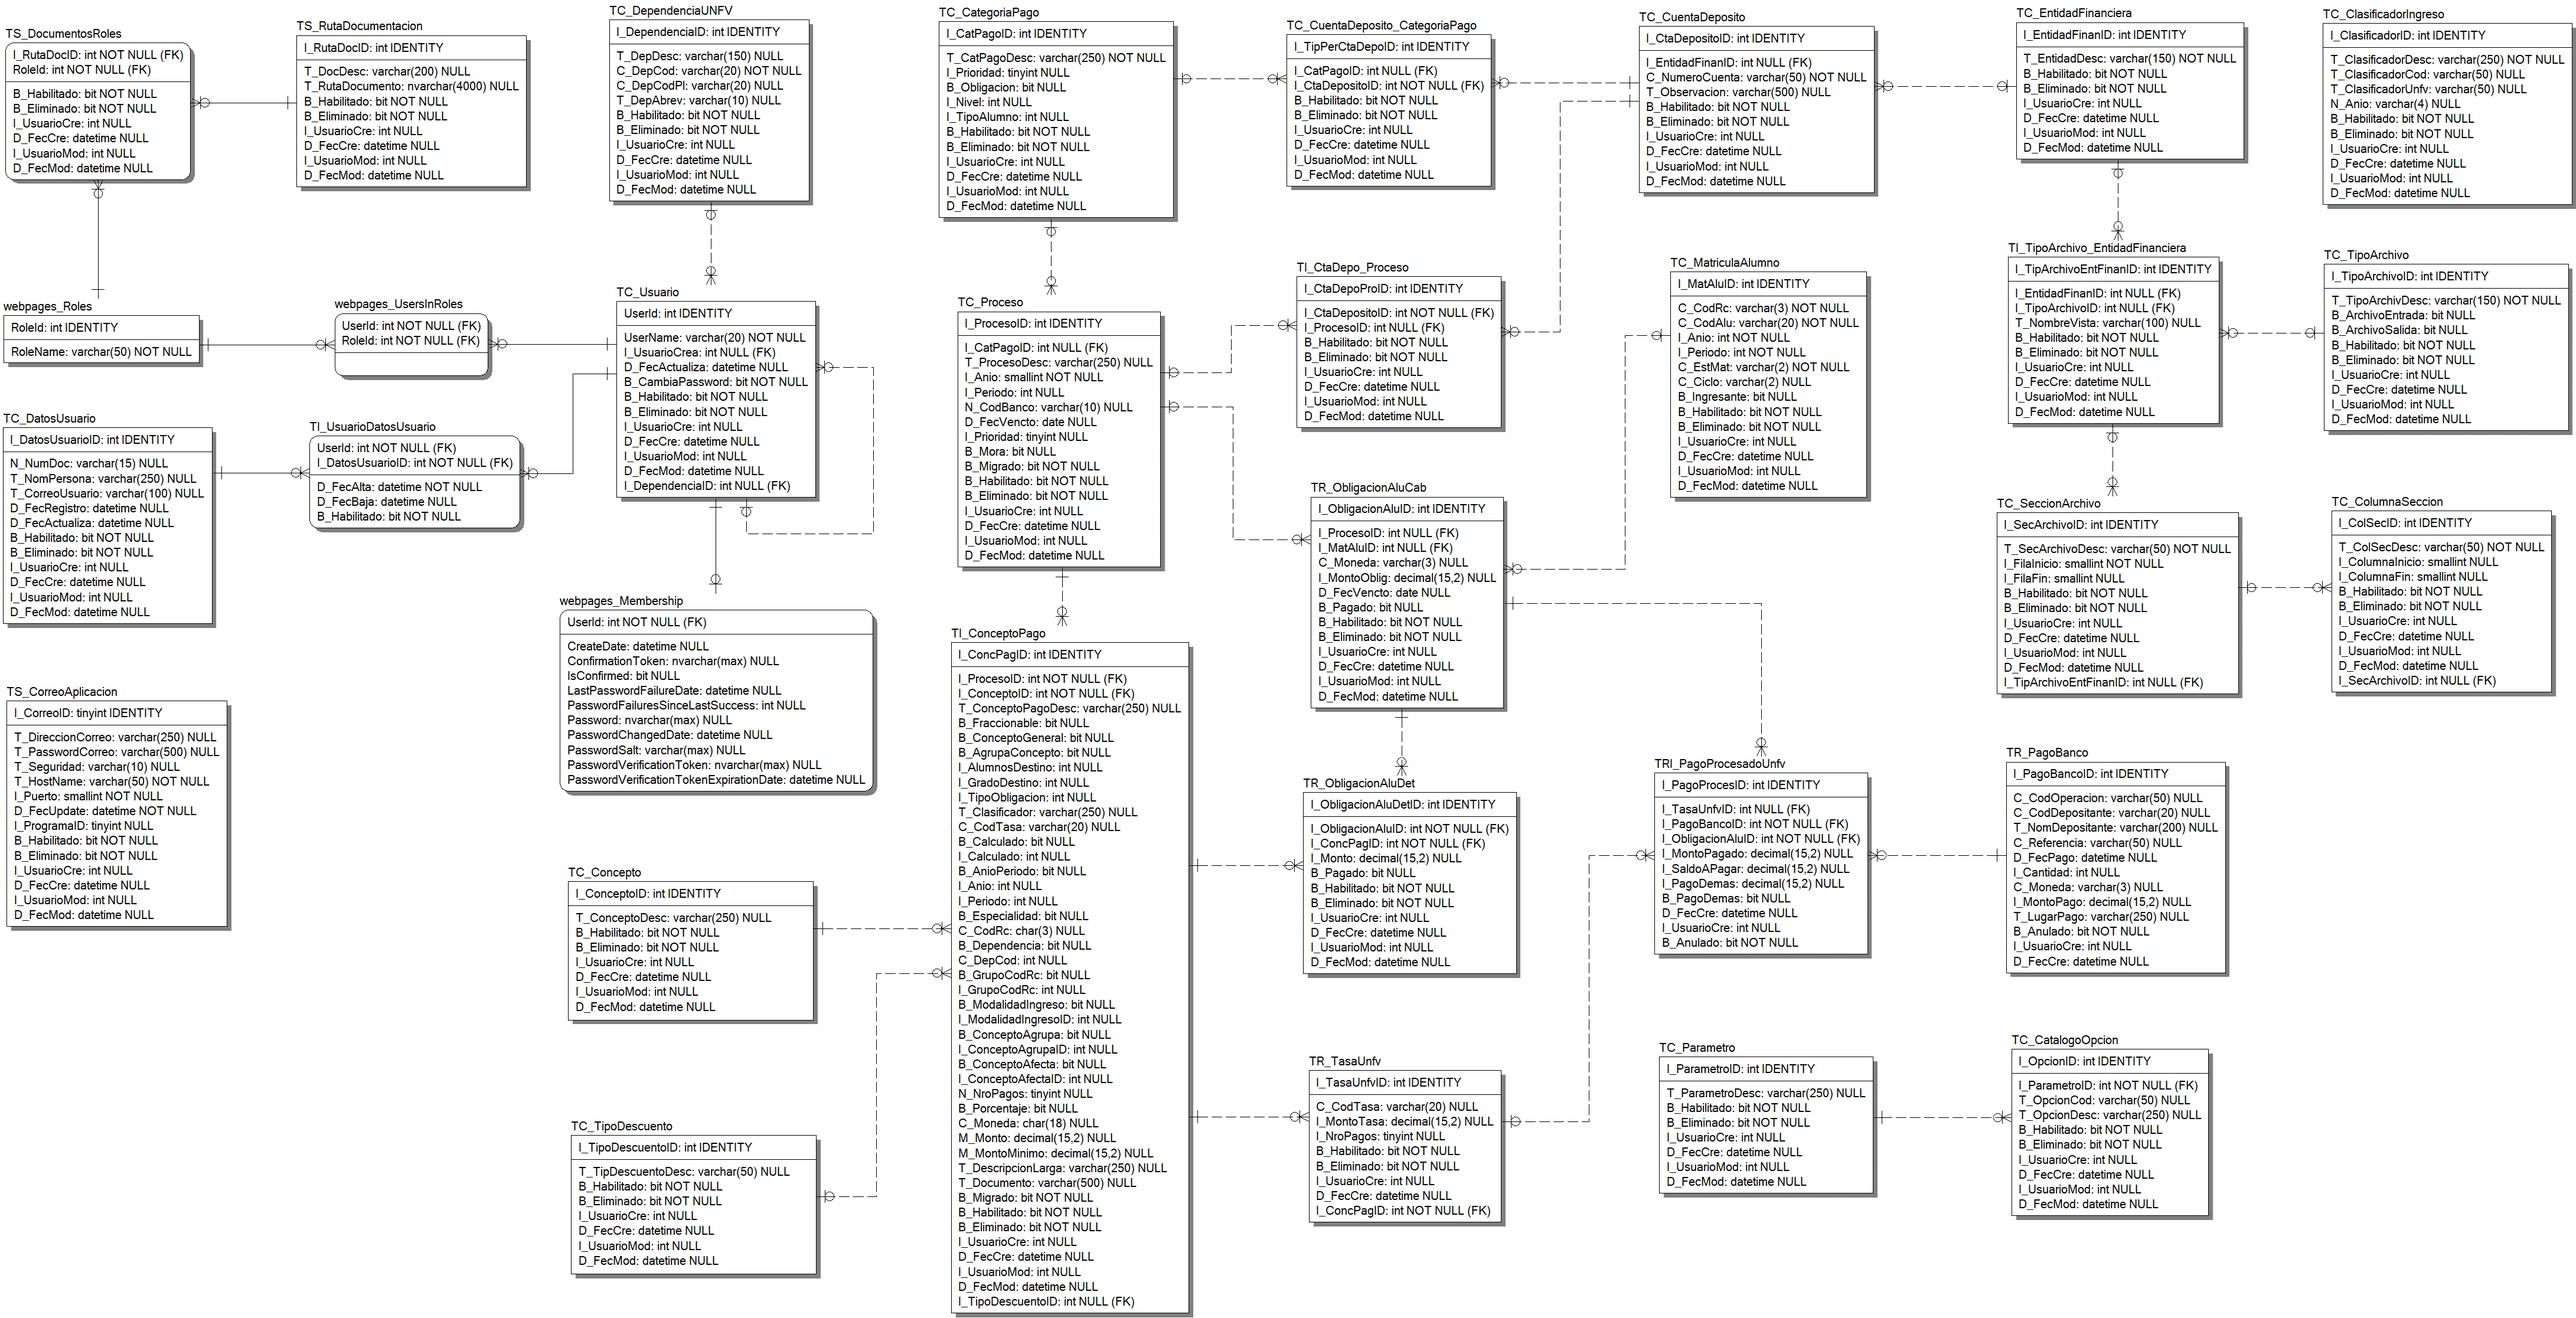
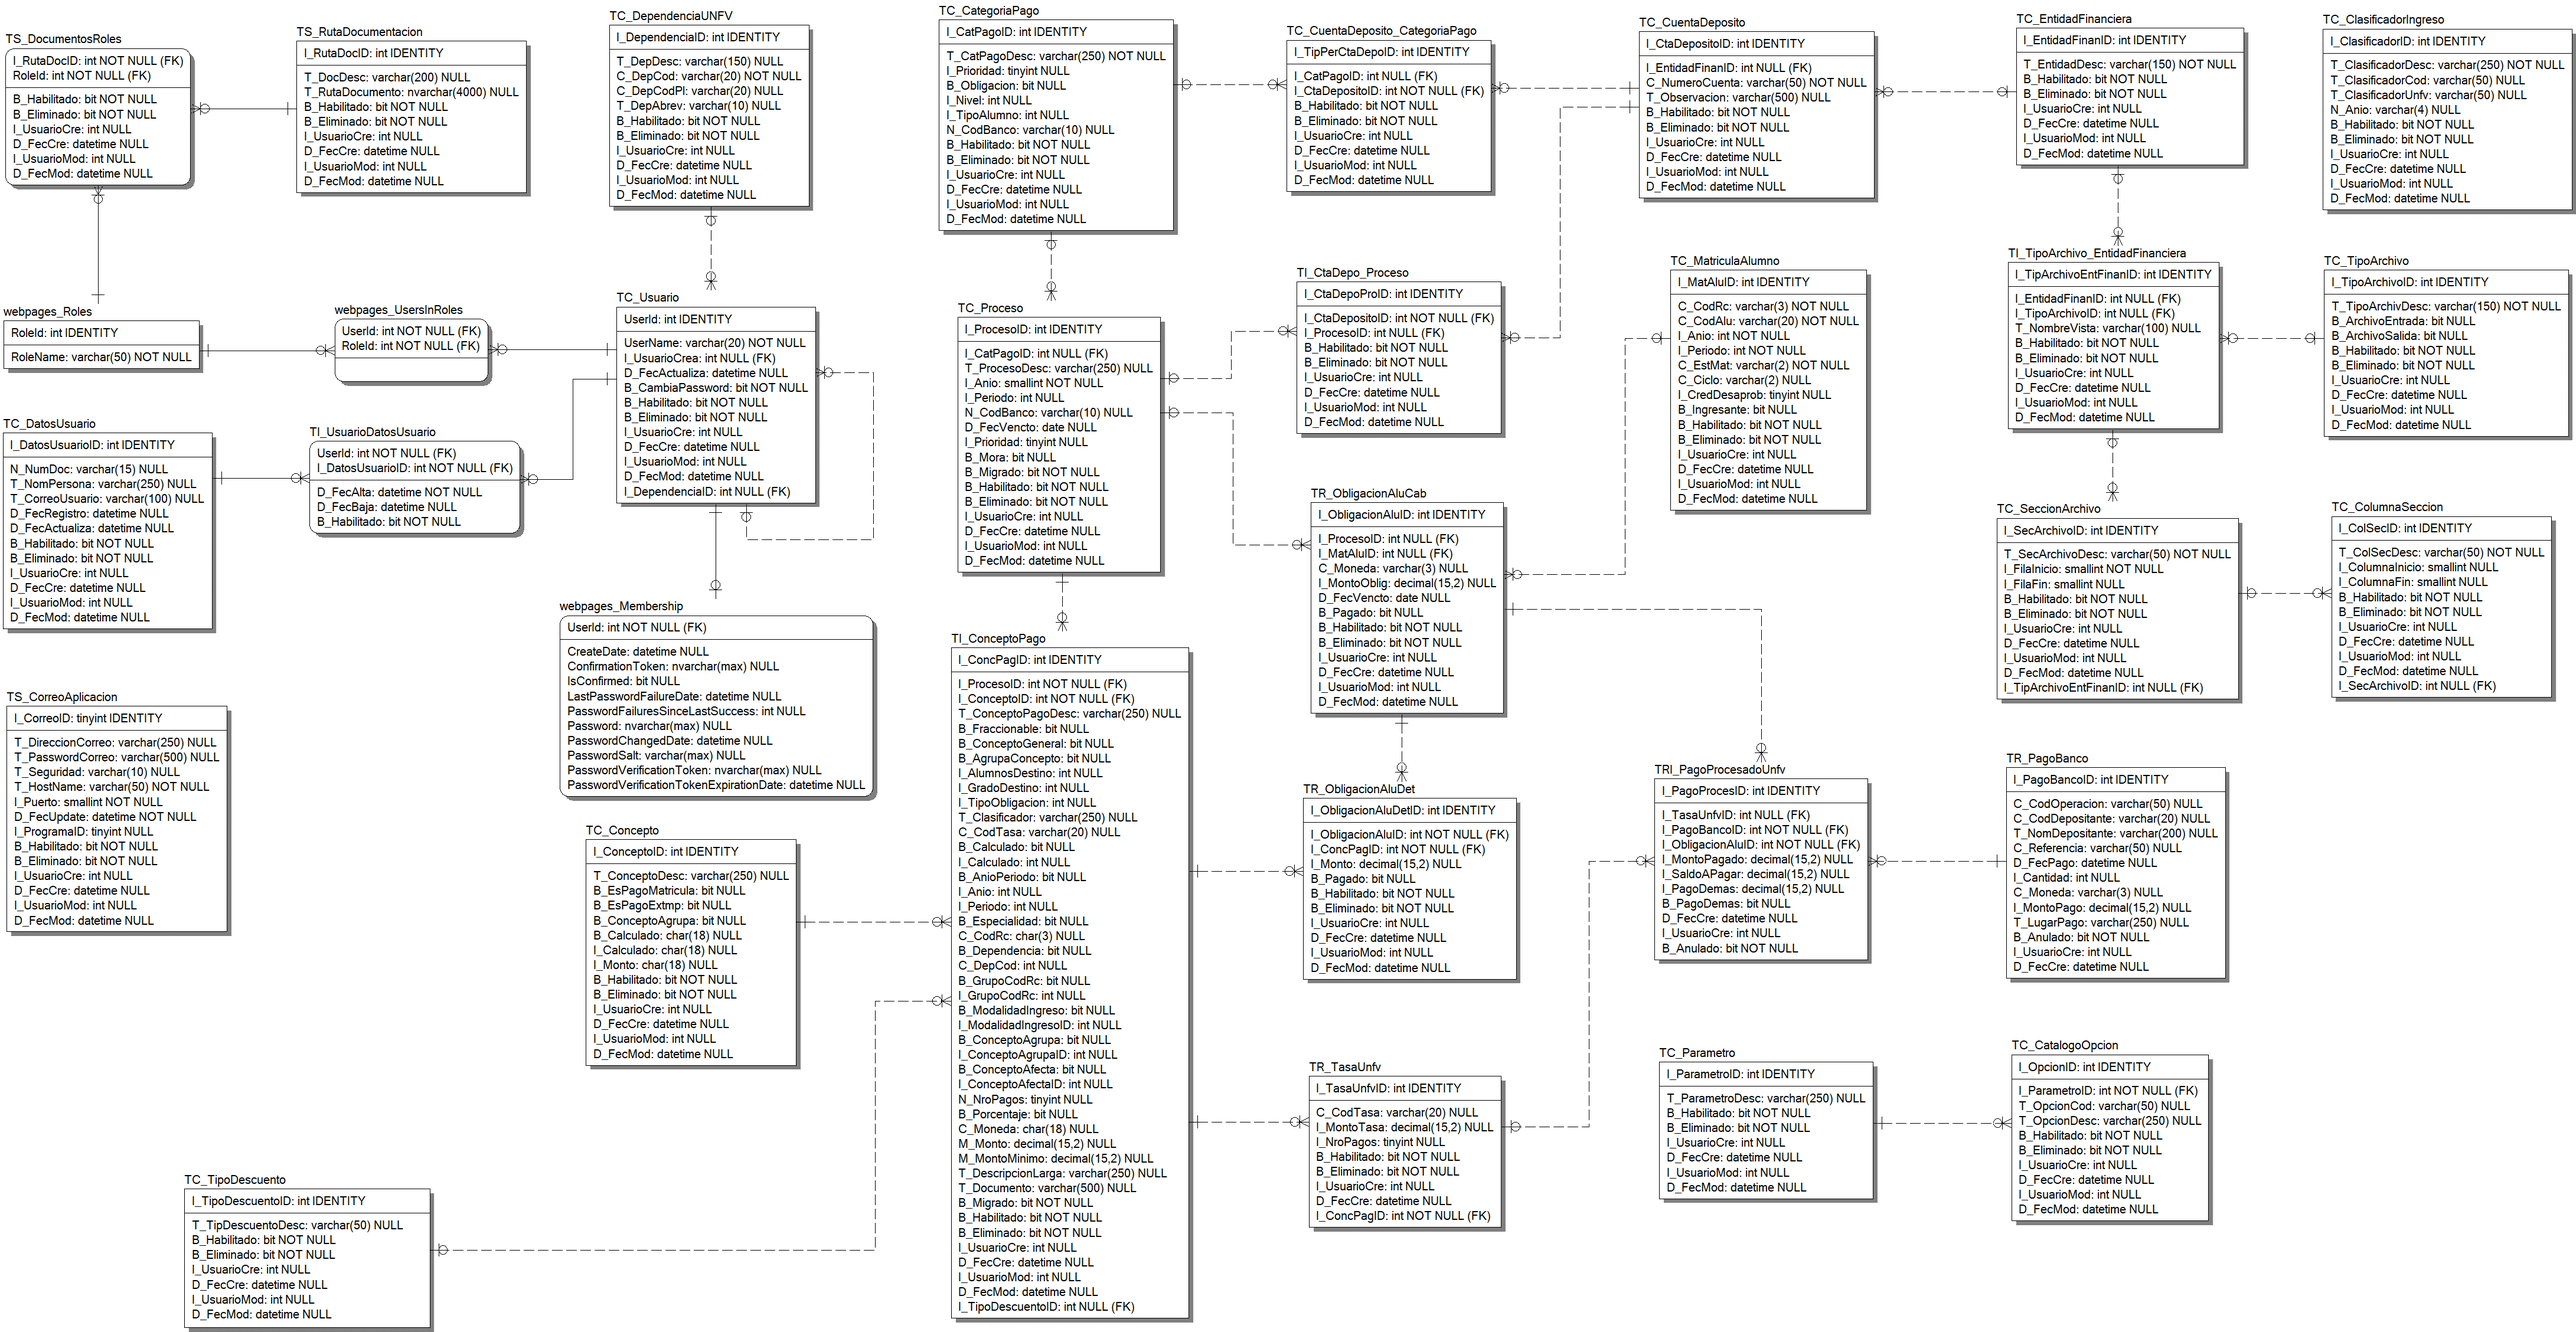
Se agregó campo N_CodBanco a CategoriaPago

diff --git a/src/app/00043-CuentasPorCobrar/Data/Tables/TC_CategoriaPago.cs b/src/app/00043-CuentasPorCobrar/Data/Tables/TC_CategoriaPago.cs
@@ -20,6 +20,7 @@ namespace Data.Tables
         public int I_TipoAlumno { get; set; }
         public string T_TipoAluDesc { get; set; }
         public bool B_Obligacion { get; set; }
+        public string N_CodBanco { get; set; }
         public bool B_Habilitado { get; set; }
         public bool B_Eliminado { get; set; }
         public int? I_UsuarioCre { get; set; }
@@ -86,6 +87,7 @@ namespace Data.Tables
                     parameters.Add(name: "I_TipoAlumno", dbType: DbType.Int32, value: this.I_TipoAlumno);
                     parameters.Add(name: "I_Prioridad", dbType: DbType.Int32, value: this.I_Prioridad);
                     parameters.Add(name: "B_Obligacion", dbType: DbType.Boolean, value: this.B_Obligacion);
+                    parameters.Add(name: "N_CodBanco", dbType: DbType.String, size: 10, value: this.N_CodBanco);
                     parameters.Add(name: "Tbl_Cuentas", value: dataTable.AsTableValuedParameter("type_SelectItems"));
                     parameters.Add(name: "D_FecCre", dbType: DbType.DateTime, value: this.D_FecCre);
                     parameters.Add(name: "CurrentUserId", dbType: DbType.Int32, value: currentUserId);
@@ -122,6 +124,7 @@ namespace Data.Tables
                     parameters.Add(name: "I_Nivel", dbType: DbType.Int32, value: this.I_Nivel);
                     parameters.Add(name: "I_TipoAlumno", dbType: DbType.Int32, value: this.I_TipoAlumno);
                     parameters.Add(name: "I_Prioridad", dbType: DbType.Int32, value: this.I_Prioridad);
+                    parameters.Add(name: "N_CodBanco", dbType: DbType.String, size: 10, value: this.N_CodBanco);
                     parameters.Add(name: "Tbl_Cuentas", value: dataTable.AsTableValuedParameter("type_SelectItems"));
                     parameters.Add(name: "B_Obligacion", dbType: DbType.Boolean, value: this.B_Obligacion);
                     parameters.Add(name: "D_FecMod", dbType: DbType.DateTime, value: this.D_FecMod);

diff --git a/src/app/00043-CuentasPorCobrar/WebApp/Models/CategoriaPagoModel.cs b/src/app/00043-CuentasPorCobrar/WebApp/Models/CategoriaPagoModel.cs
@@ -12,10 +12,13 @@ namespace WebApp.Models
     public class CategoriaPagoModel
     {
         private readonly ICategoriaPago _categoriaPago;
+        private readonly IEntidadFinanciera _entidadFinanciera;
+        private const int BANCO_COMERCIO_ID = 1;
 
         public CategoriaPagoModel()
         {
             _categoriaPago = new CategoriaPago();
+            _entidadFinanciera = new EntidadFinanciera();
         }
 
         public List<CategoriaPagoViewModel> Find()
@@ -32,18 +35,30 @@ namespace WebApp.Models
 
         public CategoriaPagoRegistroViewModel Find(int categoriaPagoID)
         {
-            return new CategoriaPagoRegistroViewModel(_categoriaPago.Find(categoriaPagoID));
+            CategoriaPago categoriaPago = _categoriaPago.Find(categoriaPagoID);
+            EntidadFinanciera bancoComercio = _entidadFinanciera.Find(BANCO_COMERCIO_ID);
+
+            string nombreBanco = bancoComercio != null ? bancoComercio.Nombre : null;
+
+            var result = new CategoriaPagoRegistroViewModel(categoriaPago) { BcoComercioNombre = nombreBanco };
+
+            if (categoriaPago.CuentasDepositoEntidad.Where(x => x.EntidadFinanId == BANCO_COMERCIO_ID).Count() > 0)
+                 result.MostrarCodBanco = true;
+
+            return result;
         }
 
         public Response Save(CategoriaPagoRegistroViewModel model, int currentUserId)
         {
-            CategoriaPago categoriaPago = new CategoriaPago() {
+            CategoriaPago categoriaPago = new CategoriaPago()
+            {
                 CategoriaId = model.Id,
                 Descripcion = model.Nombre,
                 Nivel = model.NivelId,
                 TipoAlumno = model.TipoAlumnoId,
                 Prioridad = model.Prioridad,
                 EsObligacion = model.EsObligacion,
+                CodBcoComercio = model.CodBcoComercio,
                 CuentasDeposito = model.CuentasDeposito.ToList()
             };
 

diff --git a/src/app/00043-CuentasPorCobrar/Domain/Entities/CategoriaPago.cs b/src/app/00043-CuentasPorCobrar/Domain/Entities/CategoriaPago.cs
@@ -21,7 +21,9 @@ namespace Domain.Entities
         public int TipoAlumno { get; set; }
         public string TipoAlumnoDesc { get; set; }
         public bool EsObligacion { get; set; }
+        public string CodBcoComercio { get; set; }
         public List<int> CuentasDeposito { get; set; }
+        public List<CuentaDepoEntidad> CuentasDepositoEntidad { get; set; }
         public bool Habilitado { get; set; }
 
 
@@ -40,6 +42,7 @@ namespace Domain.Entities
             this.Prioridad = table.I_Prioridad;
             this.TipoAlumno = table.I_TipoAlumno;
             this.EsObligacion = table.B_Obligacion;
+            this.CodBcoComercio = table.N_CodBanco;
             this.Habilitado = table.B_Habilitado;
         }
 
@@ -76,7 +79,12 @@ namespace Domain.Entities
 
             return new CategoriaPago(TC_CategoriaPago.FindByID(categoriaPagoId))
             {
-                CuentasDeposito = cuentas != null ? cuentas.Select(x => x.I_CtaDepositoID).ToList() : new List<int>()
+                CuentasDeposito = cuentas != null ? cuentas.Select(x => x.I_CtaDepositoID).ToList(): new List<int>(),
+                CuentasDepositoEntidad = cuentas != null ? cuentas.Select(x => new CuentaDepoEntidad()
+                {
+                    CuentaDepoId = x.I_CtaDepositoID,
+                    EntidadFinanId = x.I_EntidadFinanID
+                }).ToList() : new List<CuentaDepoEntidad>()
             };
         }
 
@@ -88,6 +96,7 @@ namespace Domain.Entities
             _categoriaPago.I_TipoAlumno = categoriaPago.TipoAlumno;
             _categoriaPago.I_Nivel = categoriaPago.Nivel;
             _categoriaPago.B_Obligacion = categoriaPago.EsObligacion;
+            _categoriaPago.N_CodBanco = categoriaPago.CodBcoComercio;
 
             DataTable dataTable = new DataTable();
             dataTable.Columns.Add("C_ID");

diff --git a/src/app/00043-CuentasPorCobrar/Data/Procedures/USP_S_ConceptoPago.cs b/src/app/00043-CuentasPorCobrar/Data/Procedures/USP_S_ConceptoPago.cs
@@ -12,16 +12,17 @@ namespace Data.Procedures
 {
     public class USP_S_ConceptoPago
     {
-        public int I_ConcPagID { get; set; }
+        public int? I_ConcPagID { get; set; }
         public string T_CatPagoDesc { get; set; }
         public string T_ConceptoDesc { get; set; }
         public int I_Anio { get; set; }
         public int I_Periodo { get; set; }
         public decimal M_Monto { get; set; }
         
-        public static List<USP_S_ConceptoPago> Execute()
+        public static List<USP_S_ConceptoPago> Execute(int I_ProcesoID)
         {
             List<USP_S_ConceptoPago> result;
+            DynamicParameters parameters = new DynamicParameters();
 
             try
             {
@@ -29,7 +30,8 @@ namespace Data.Procedures
 
                 using (var _dbConnection = new SqlConnection(Database.ConnectionString))
                 {
-                    result = _dbConnection.Query<USP_S_ConceptoPago>(s_command, commandType: CommandType.StoredProcedure).ToList();
+                    parameters.Add(name: "I_ProcesoID", dbType: DbType.Int32, value: I_ProcesoID);
+                    result = _dbConnection.Query<USP_S_ConceptoPago>(s_command, parameters, commandType: CommandType.StoredProcedure).ToList();
                 }
             }
             catch (Exception ex)

diff --git a/src/app/00043-CuentasPorCobrar/WebApp/ViewModels/CategoriaPagoViewModels.cs b/src/app/00043-CuentasPorCobrar/WebApp/ViewModels/CategoriaPagoViewModels.cs
@@ -1,4 +1,5 @@
-using Domain.Entities;
+using Domain.DTO;
+using Domain.Entities;
 using System;
 using System.Collections.Generic;
 using System.ComponentModel.DataAnnotations;
@@ -54,8 +55,14 @@ namespace WebApp.ViewModels
         [Display(Name = "Prioridad")]
         public int Prioridad { get; set; }
 
+        [Display(Name = "Código Bco. Comercio")]
+        [MaxLength(10)]
+        public string CodBcoComercio { get; set; }
+
         [Display(Name = "Cuentas Habilitadas")]
         public int[] CuentasDeposito { get; set; }
+        public bool  MostrarCodBanco { get; set; } 
+        public string BcoComercioNombre { get; set; } 
 
         public CategoriaPagoRegistroViewModel() { }
 
@@ -67,6 +74,7 @@ namespace WebApp.ViewModels
             this.TipoAlumnoId = categoriaPago.TipoAlumno;
             this.Prioridad = categoriaPago.Prioridad;
             this.EsObligacion = categoriaPago.EsObligacion;
+            this.CodBcoComercio = categoriaPago.CodBcoComercio;
             this.CuentasDeposito = categoriaPago.CuentasDeposito.ToArray();
         }
     }

diff --git a/src/app/00043-CuentasPorCobrar/Data/Procedures/USP_S_CuentaDeposito_Habilitadas.cs b/src/app/00043-CuentasPorCobrar/Data/Procedures/USP_S_CuentaDeposito_Habilitadas.cs
@@ -13,6 +13,7 @@ namespace Data.Procedures
     public class USP_S_CuentaDeposito_Habilitadas
     {
         public int I_CtaDepositoID { get; set; }
+        public int I_EntidadFinanID { get; set; }
         public string C_NumeroCuenta { get; set; }
         public string T_DescCuenta { get; set; }
         public string T_EntidadDesc { get; set; }

diff --git a/src/app/00043-CuentasPorCobrar/Domain/DTO/Tipos.cs b/src/app/00043-CuentasPorCobrar/Domain/DTO/Tipos.cs
@@ -1,0 +1,14 @@
+using System;
+using System.Collections.Generic;
+using System.Linq;
+using System.Text;
+using System.Threading.Tasks;
+
+namespace Domain.DTO
+{
+    public struct CuentaDepoEntidad
+    {
+        public int CuentaDepoId { get; set; }
+        public int EntidadFinanId { get; set; }
+    }
+}
